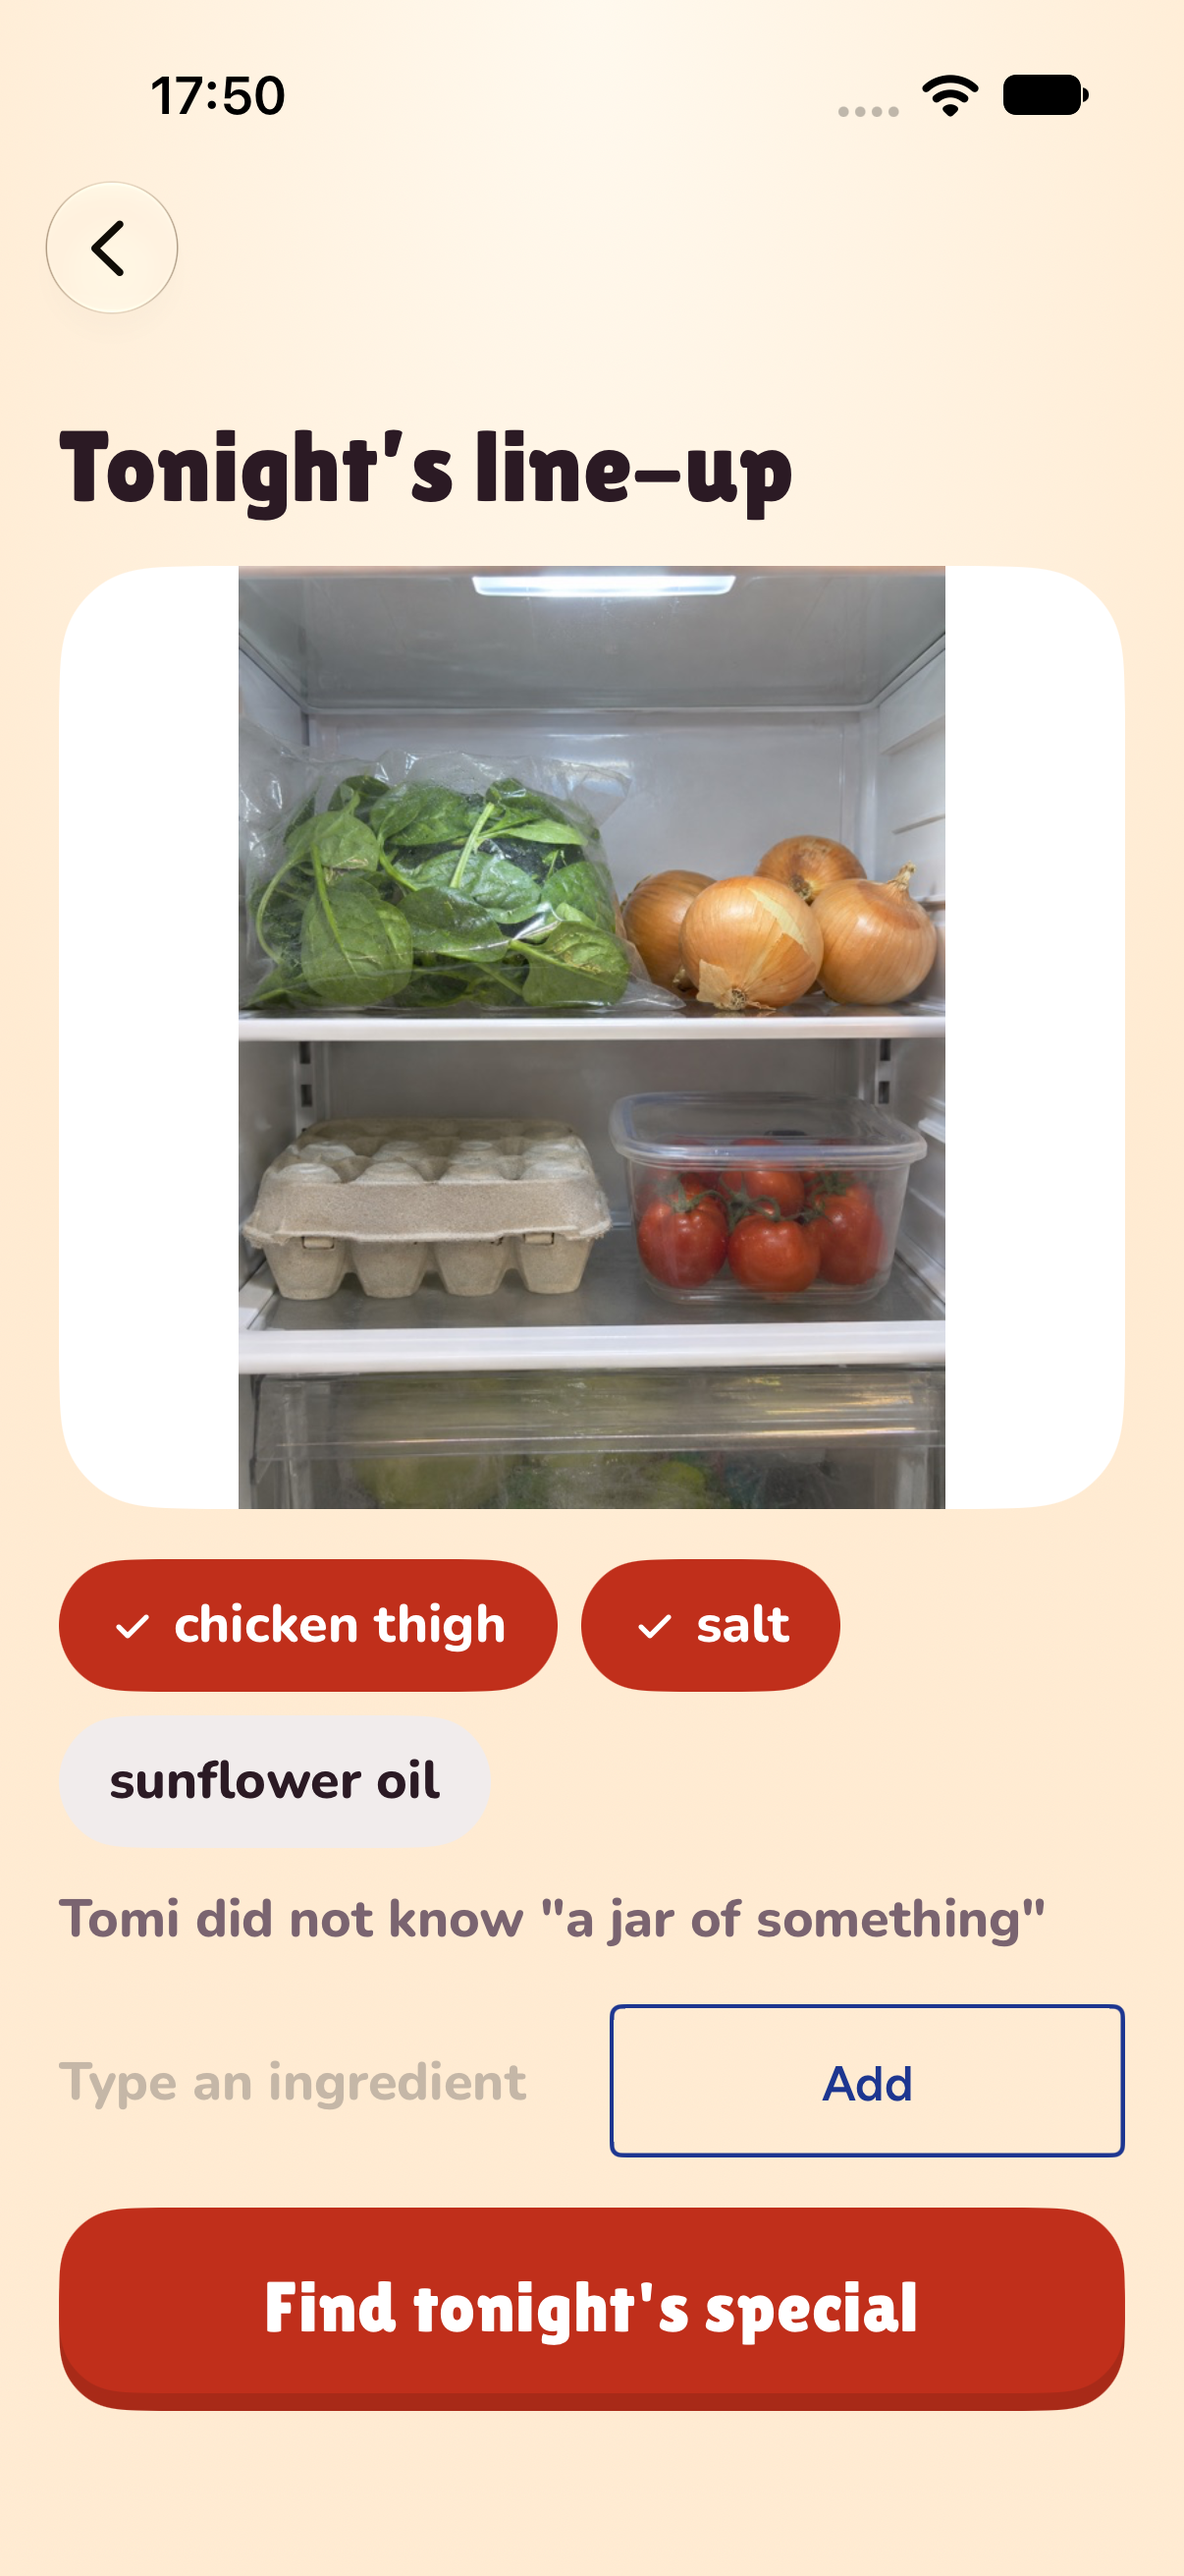
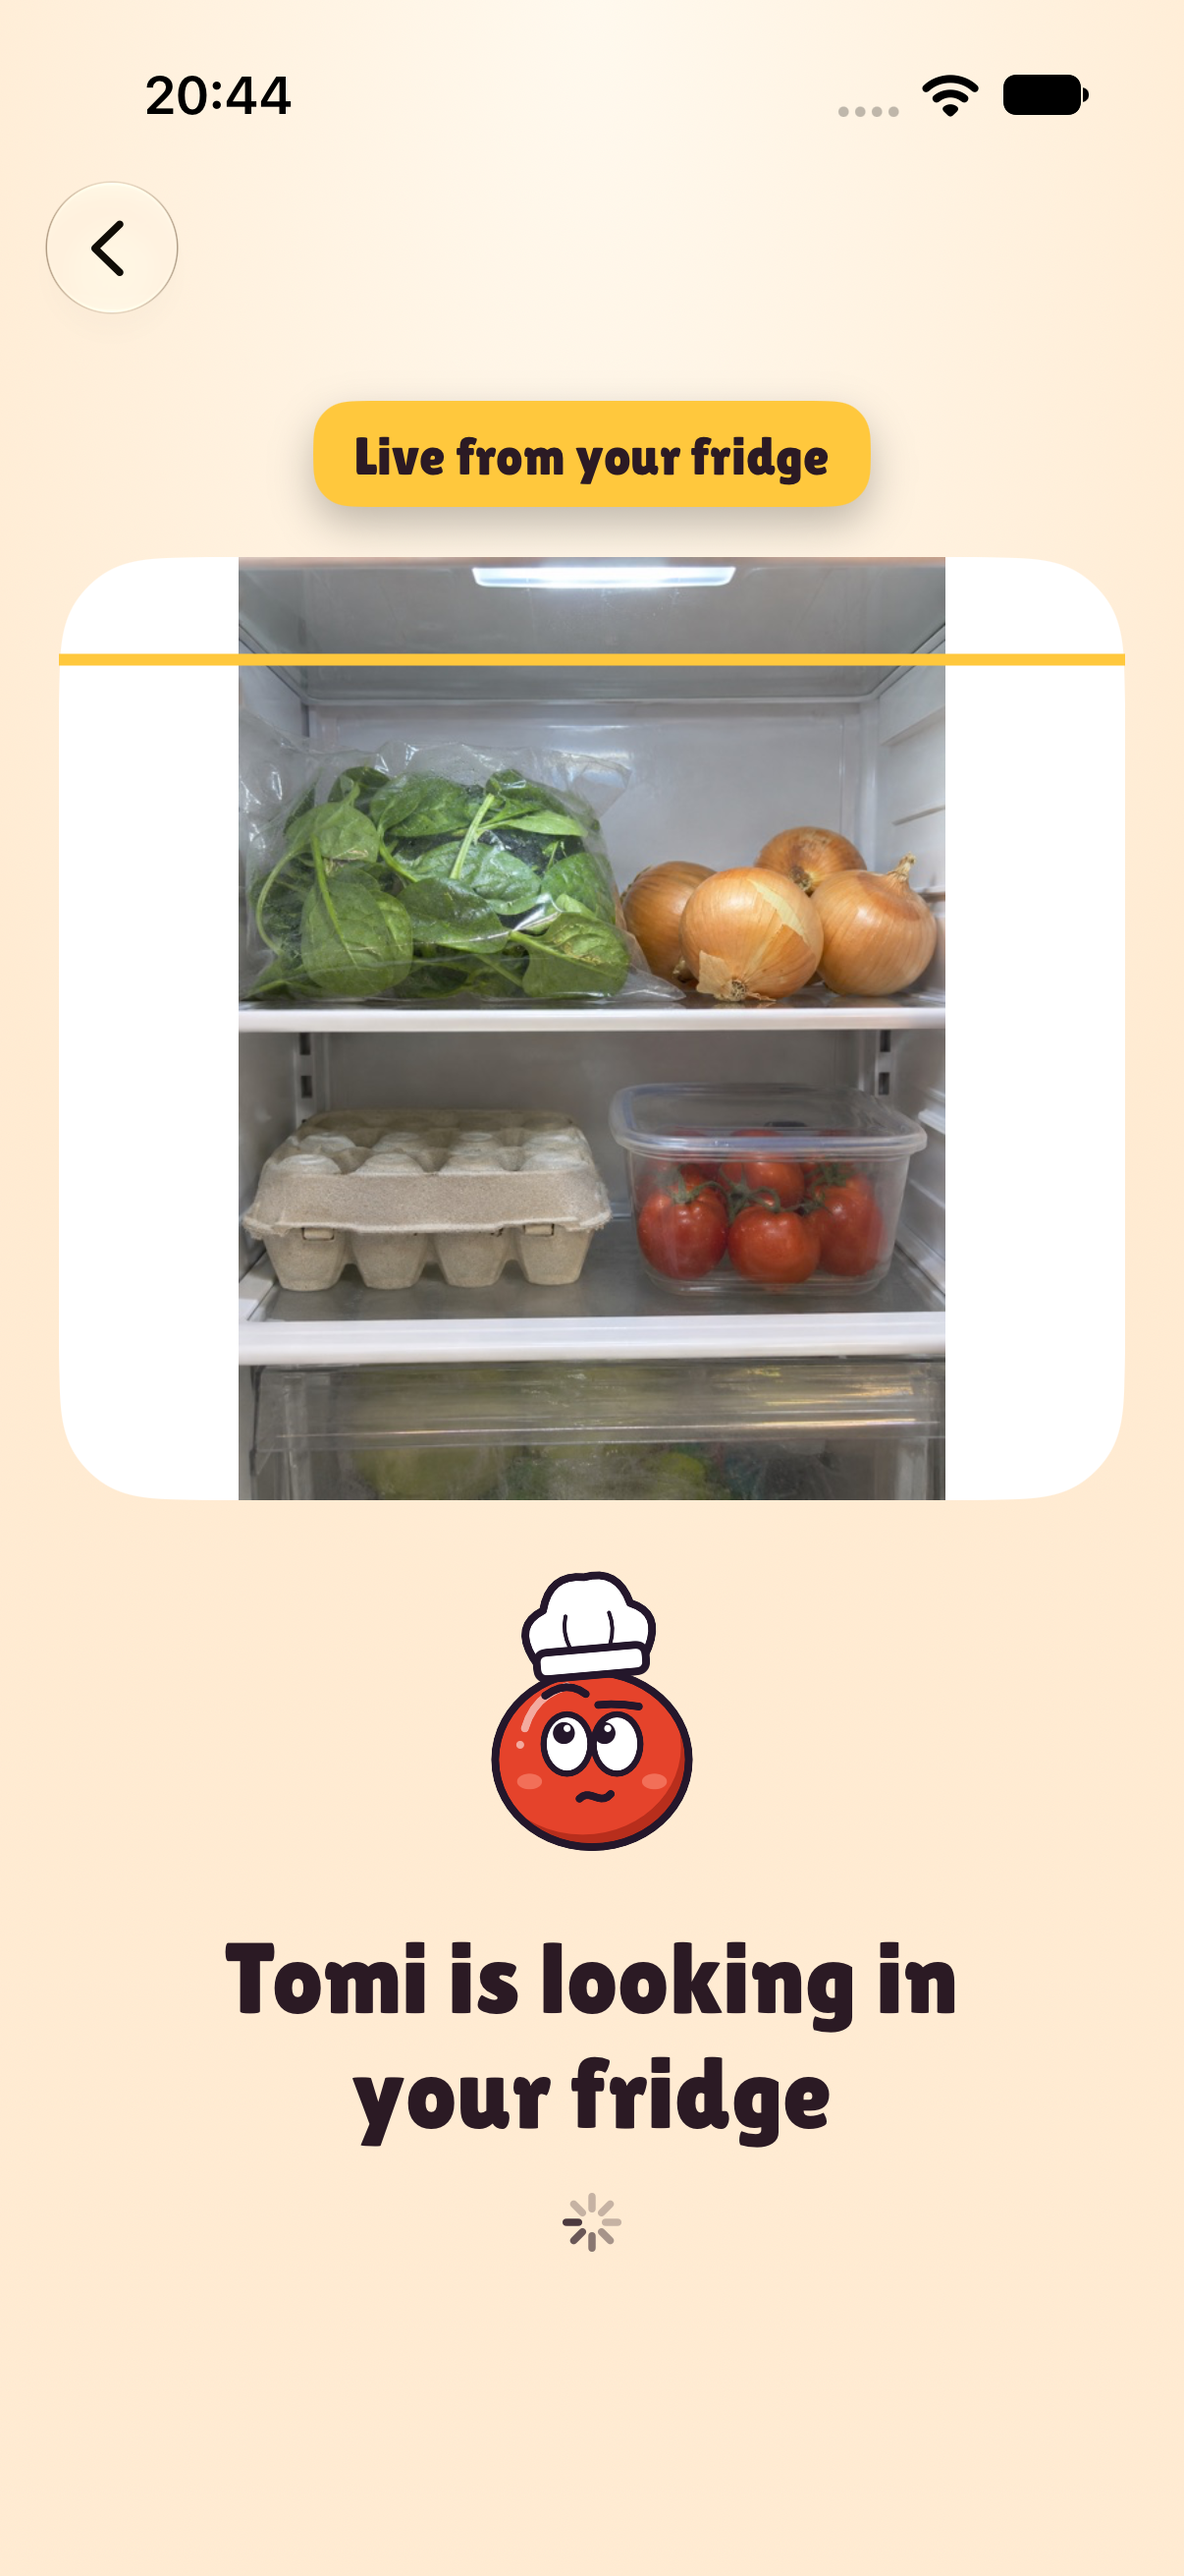
Capture each fridge state in light and dark (#198)
Use a delayed fake scan to capture the waiting state and walk through recipe detail and the empty menu.

Changed region(s): [[0.0307, 0.1545, 0.9511, 0.9577], [0.1227, 0.0309, 0.2454, 0.0618]]

diff --git a/TomiUITests/CookingShowFridgeUITests.swift b/TomiUITests/CookingShowFridgeUITests.swift
@@ -5,21 +5,32 @@ final class CookingShowFridgeUITests: XCTestCase {
 
     @MainActor func testFridgeFlowInMorningLighting() {
         visit(appearance: "light")
+        visitEmpty(appearance: "light")
     }
 
     @MainActor func testFridgeFlowInEveningLighting() {
         visit(appearance: "dark")
+        visitEmpty(appearance: "dark")
     }
 
     @MainActor private func visit(appearance: String) {
-        let app = XCUIApplication.launched(XCUIApplication.returningCook + ["--appearance-\(appearance)"])
+        let options = ["--appearance-\(appearance)", "--fake-slow-scan"]
+        let app = XCUIApplication.launched(XCUIApplication.returningCook + options)
         app.buttons["home-scan"].tap()
         XCTAssertTrue(app.element("fridge-live-label").waitForExistence(timeout: 5))
         capture("fridge-ready-\(appearance)", in: app)
-        app.buttons["scan-pick-photo"].tap()
-        XCTAssertTrue(app.element("fridge-photo-preview").waitForExistence(timeout: 5))
-        capture("fridge-line-up-\(appearance)", in: app)
+        readPhoto(in: app, appearance: appearance)
         showMenu(in: app, appearance: appearance)
+        visitDetail(in: app, appearance: appearance)
+        app.terminate()
+    }
+
+    @MainActor private func readPhoto(in app: XCUIApplication, appearance: String) {
+        app.buttons["scan-pick-photo"].tap()
+        XCTAssertTrue(app.staticTexts["scan-waiting"].waitForExistence(timeout: 5))
+        capture("fridge-reading-\(appearance)", in: app)
+        XCTAssertTrue(app.element("fridge-photo-preview").waitForExistence(timeout: 15))
+        capture("fridge-line-up-\(appearance)", in: app)
     }
 
     @MainActor private func showMenu(in app: XCUIApplication, appearance: String) {
@@ -29,6 +40,25 @@ final class CookingShowFridgeUITests: XCTestCase {
         XCTAssertTrue(app.staticTexts["fridge-menu-title"].waitForExistence(timeout: 5))
         XCTAssertTrue(app.element("suggestion-checked").exists)
         capture("fridge-menu-\(appearance)", in: app)
+    }
+
+    @MainActor private func visitDetail(in app: XCUIApplication, appearance: String) {
+        let recipe = app.buttons.matching(NSPredicate(format: "identifier BEGINSWITH 'suggestion-open-'")).firstMatch
+        app.assertCanBeTapped(recipe)
+        recipe.tap()
+        XCTAssertTrue(app.element("suggestion-yield").waitForExistence(timeout: 5))
+        capture("fridge-recipe-\(appearance)", in: app)
+    }
+
+    @MainActor private func visitEmpty(appearance: String) {
+        let app = XCUIApplication.launched(XCUIApplication.noSuggestionsCook + ["--appearance-\(appearance)"])
+        app.buttons["home-scan"].tap()
+        app.buttons["scan-type-instead"].tap()
+        XCTAssertTrue(app.element("confirm-title").waitForExistence(timeout: 5))
+        capture("fridge-typed-\(appearance)", in: app)
+        app.buttons["confirm-find"].tap()
+        XCTAssertTrue(app.element("nothing-tonight-title").waitForExistence(timeout: 5))
+        capture("fridge-empty-\(appearance)", in: app)
     }
 
     @MainActor private func capture(_ name: String, in app: XCUIApplication) {

diff --git a/Tomi/Flow/BackendLaunchOptions.swift b/Tomi/Flow/BackendLaunchOptions.swift
@@ -12,6 +12,7 @@ nonisolated struct BackendLaunchOptions: Equatable {
     static let localBackendArgument = "--local-backend"
     /// The fake server suggests nothing tonight, as the real one does before the cook has reached a lesson's level.
     static let fakeNoSuggestionsArgument = "--fake-no-suggestions"
+    static let fakeSlowScanArgument = "--fake-slow-scan"
     static let fakeGuidedArgument = "--fake-guided-cooking"
     /// The fake server's progress is that of a new cook, as it is without an argument.
     static let fakeProgressNewCookArgument = "--fake-progress-new-cook"

diff --git a/Tomi/Flow/FakeTomiAPIConfiguration+Launch.swift b/Tomi/Flow/FakeTomiAPIConfiguration+Launch.swift
@@ -10,6 +10,11 @@ extension FakeTomiAPIConfiguration {
             quizFailure: quiz.failure,
             progressServer: FakeProgressServer(arguments: arguments)
         )
+        configureMedia(arguments: arguments)
+    }
+
+    nonisolated private mutating func configureMedia(arguments: [String]) {
+        slowScan = arguments.contains(BackendLaunchOptions.fakeSlowScanArgument)
         dishPhotos = arguments.contains(BackendLaunchOptions.fakeDishPhotosArgument)
     }
 }

diff --git a/Tomi/Backend/FakeTomiAPIConfiguration.swift b/Tomi/Backend/FakeTomiAPIConfiguration.swift
@@ -12,6 +12,7 @@ nonisolated struct FakeTomiAPIConfiguration: Equatable {
     var progressServer: FakeProgressServer
     /// Every suggestion names the fake dish photo, as the server does when a reviewed photo matches the cook's version.
     var dishPhotos = false
+    var slowScan = false
 
     init(
         suggestionsNothing: Bool = false,

diff --git a/Tomi/Backend/FakeTomiAPI.swift b/Tomi/Backend/FakeTomiAPI.swift
@@ -57,6 +57,7 @@ actor FakeTomiAPI: TomiAPI {
     }
 
     func scan(jpeg: Data) async throws -> ScanResult {
+        if configuration.slowScan { try await Task.sleep(for: .seconds(10)) }
         releasePendingProfile()
         return data.scan()
     }
